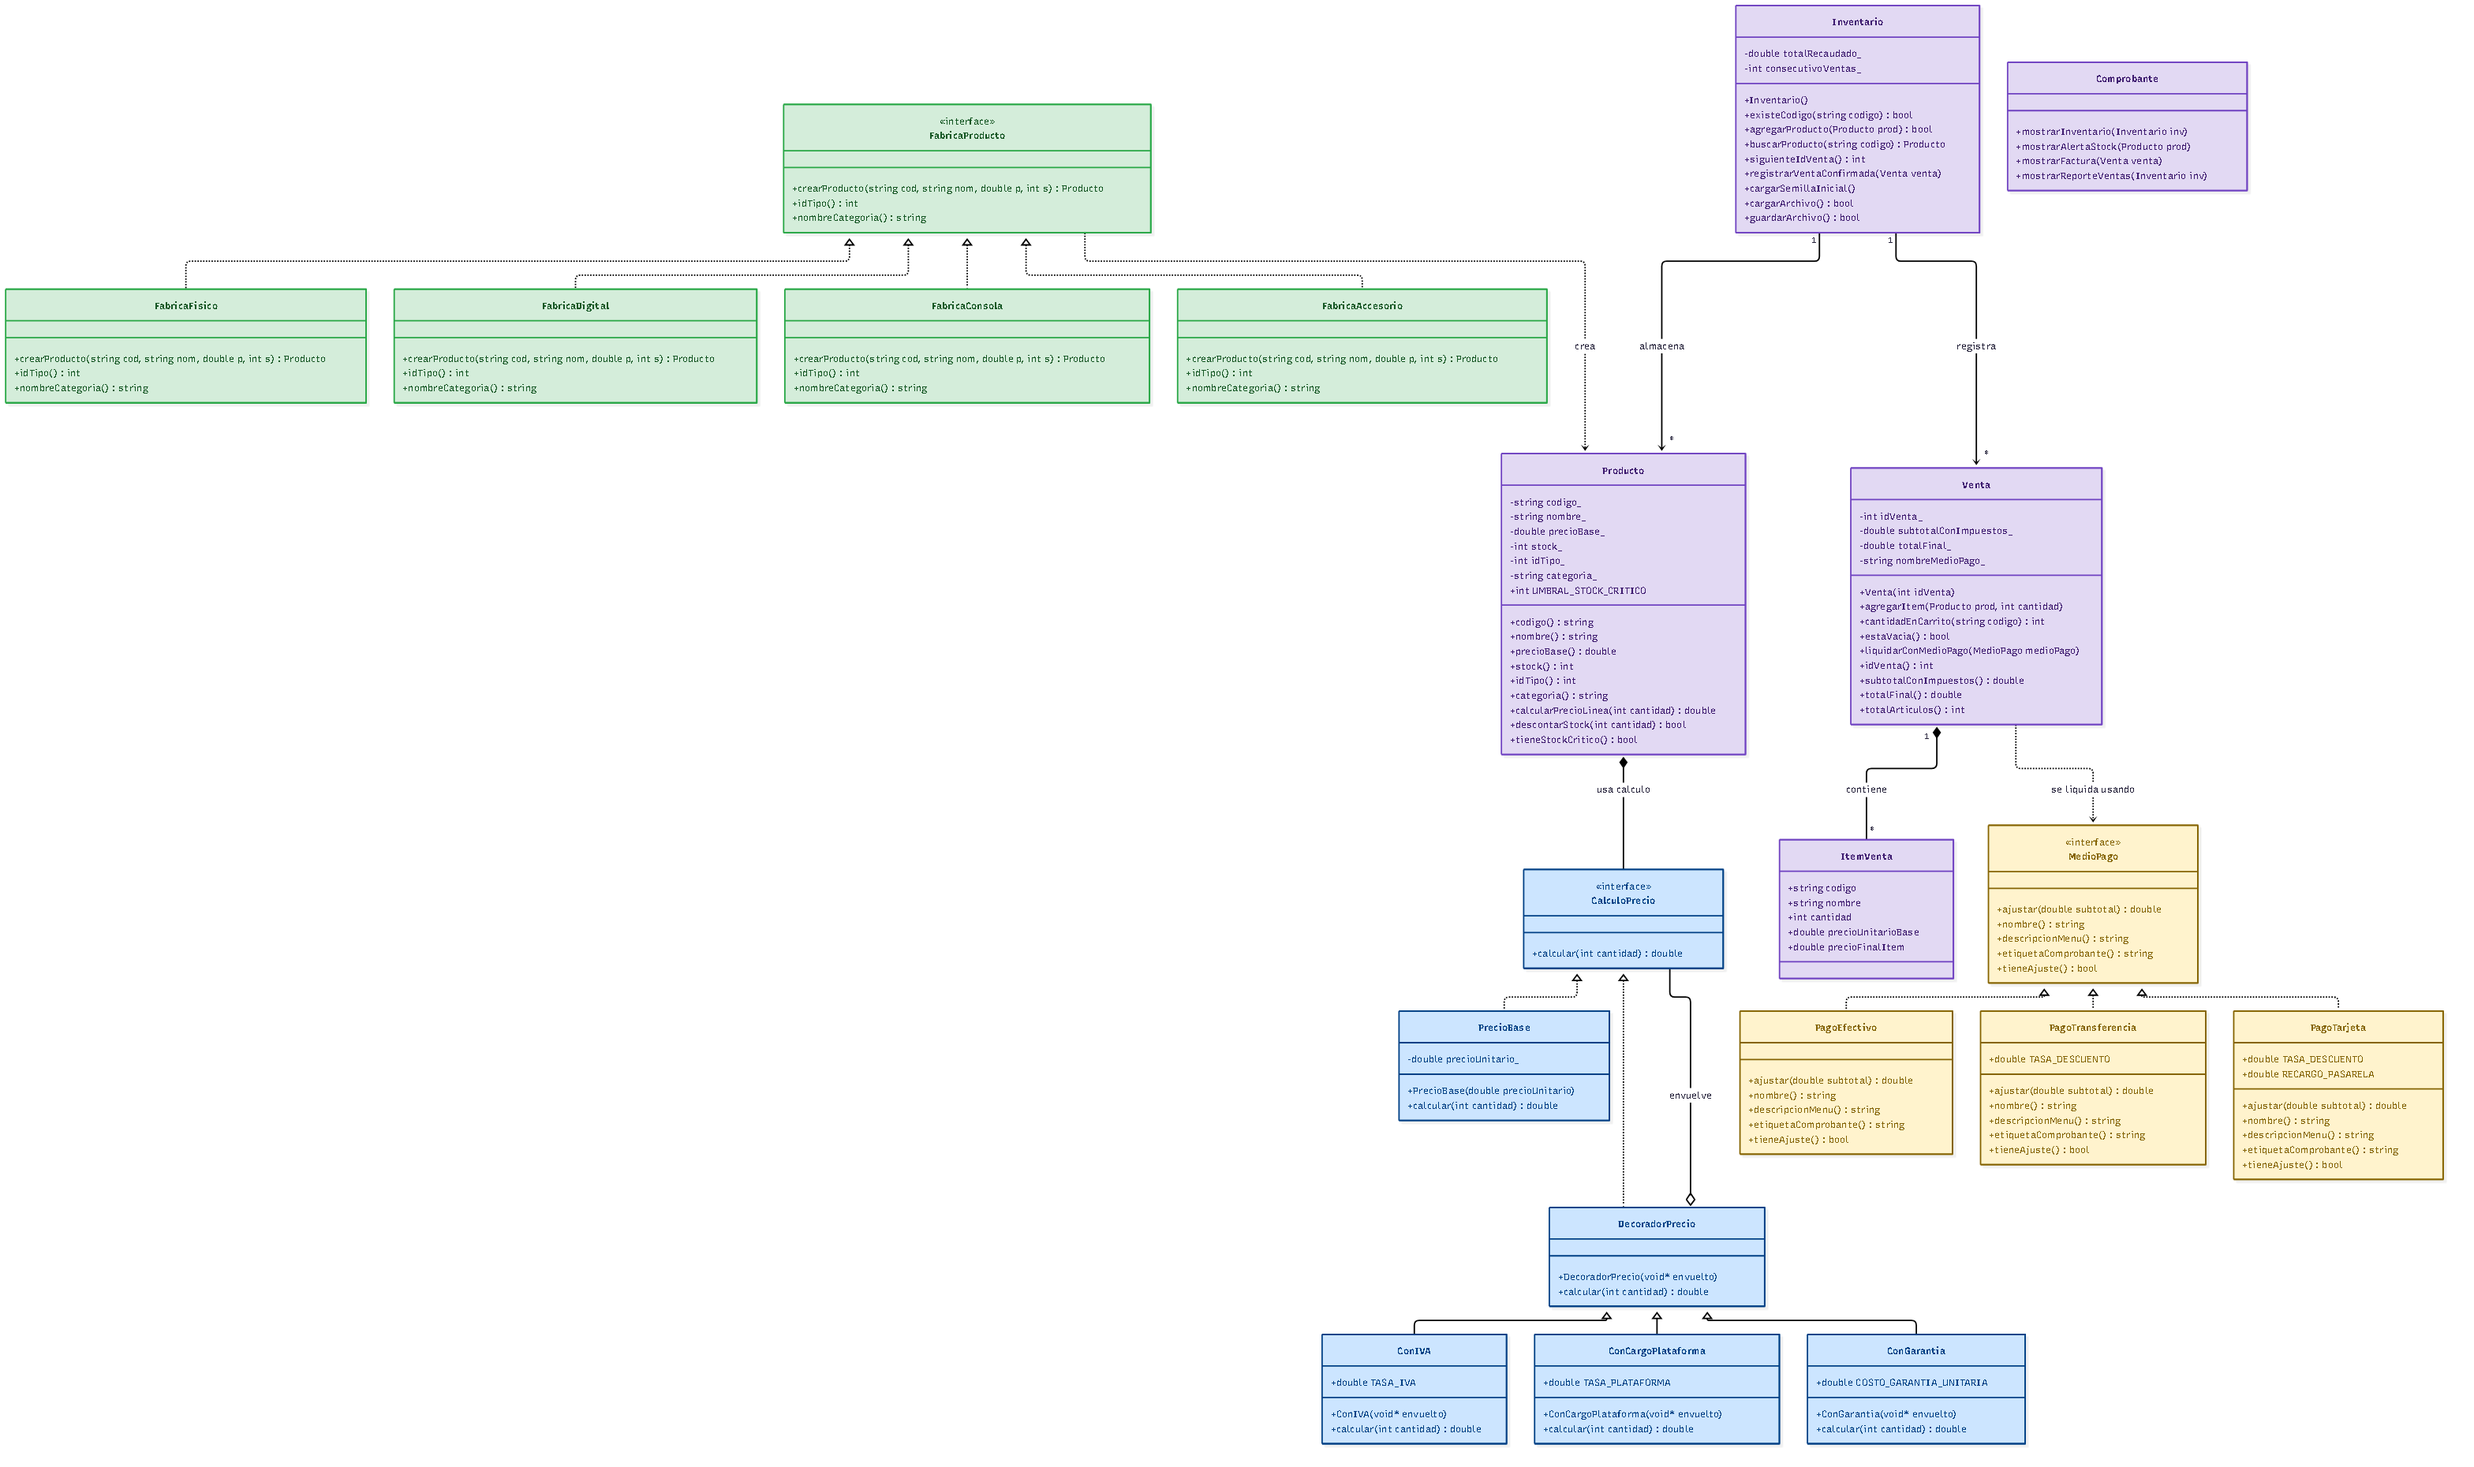
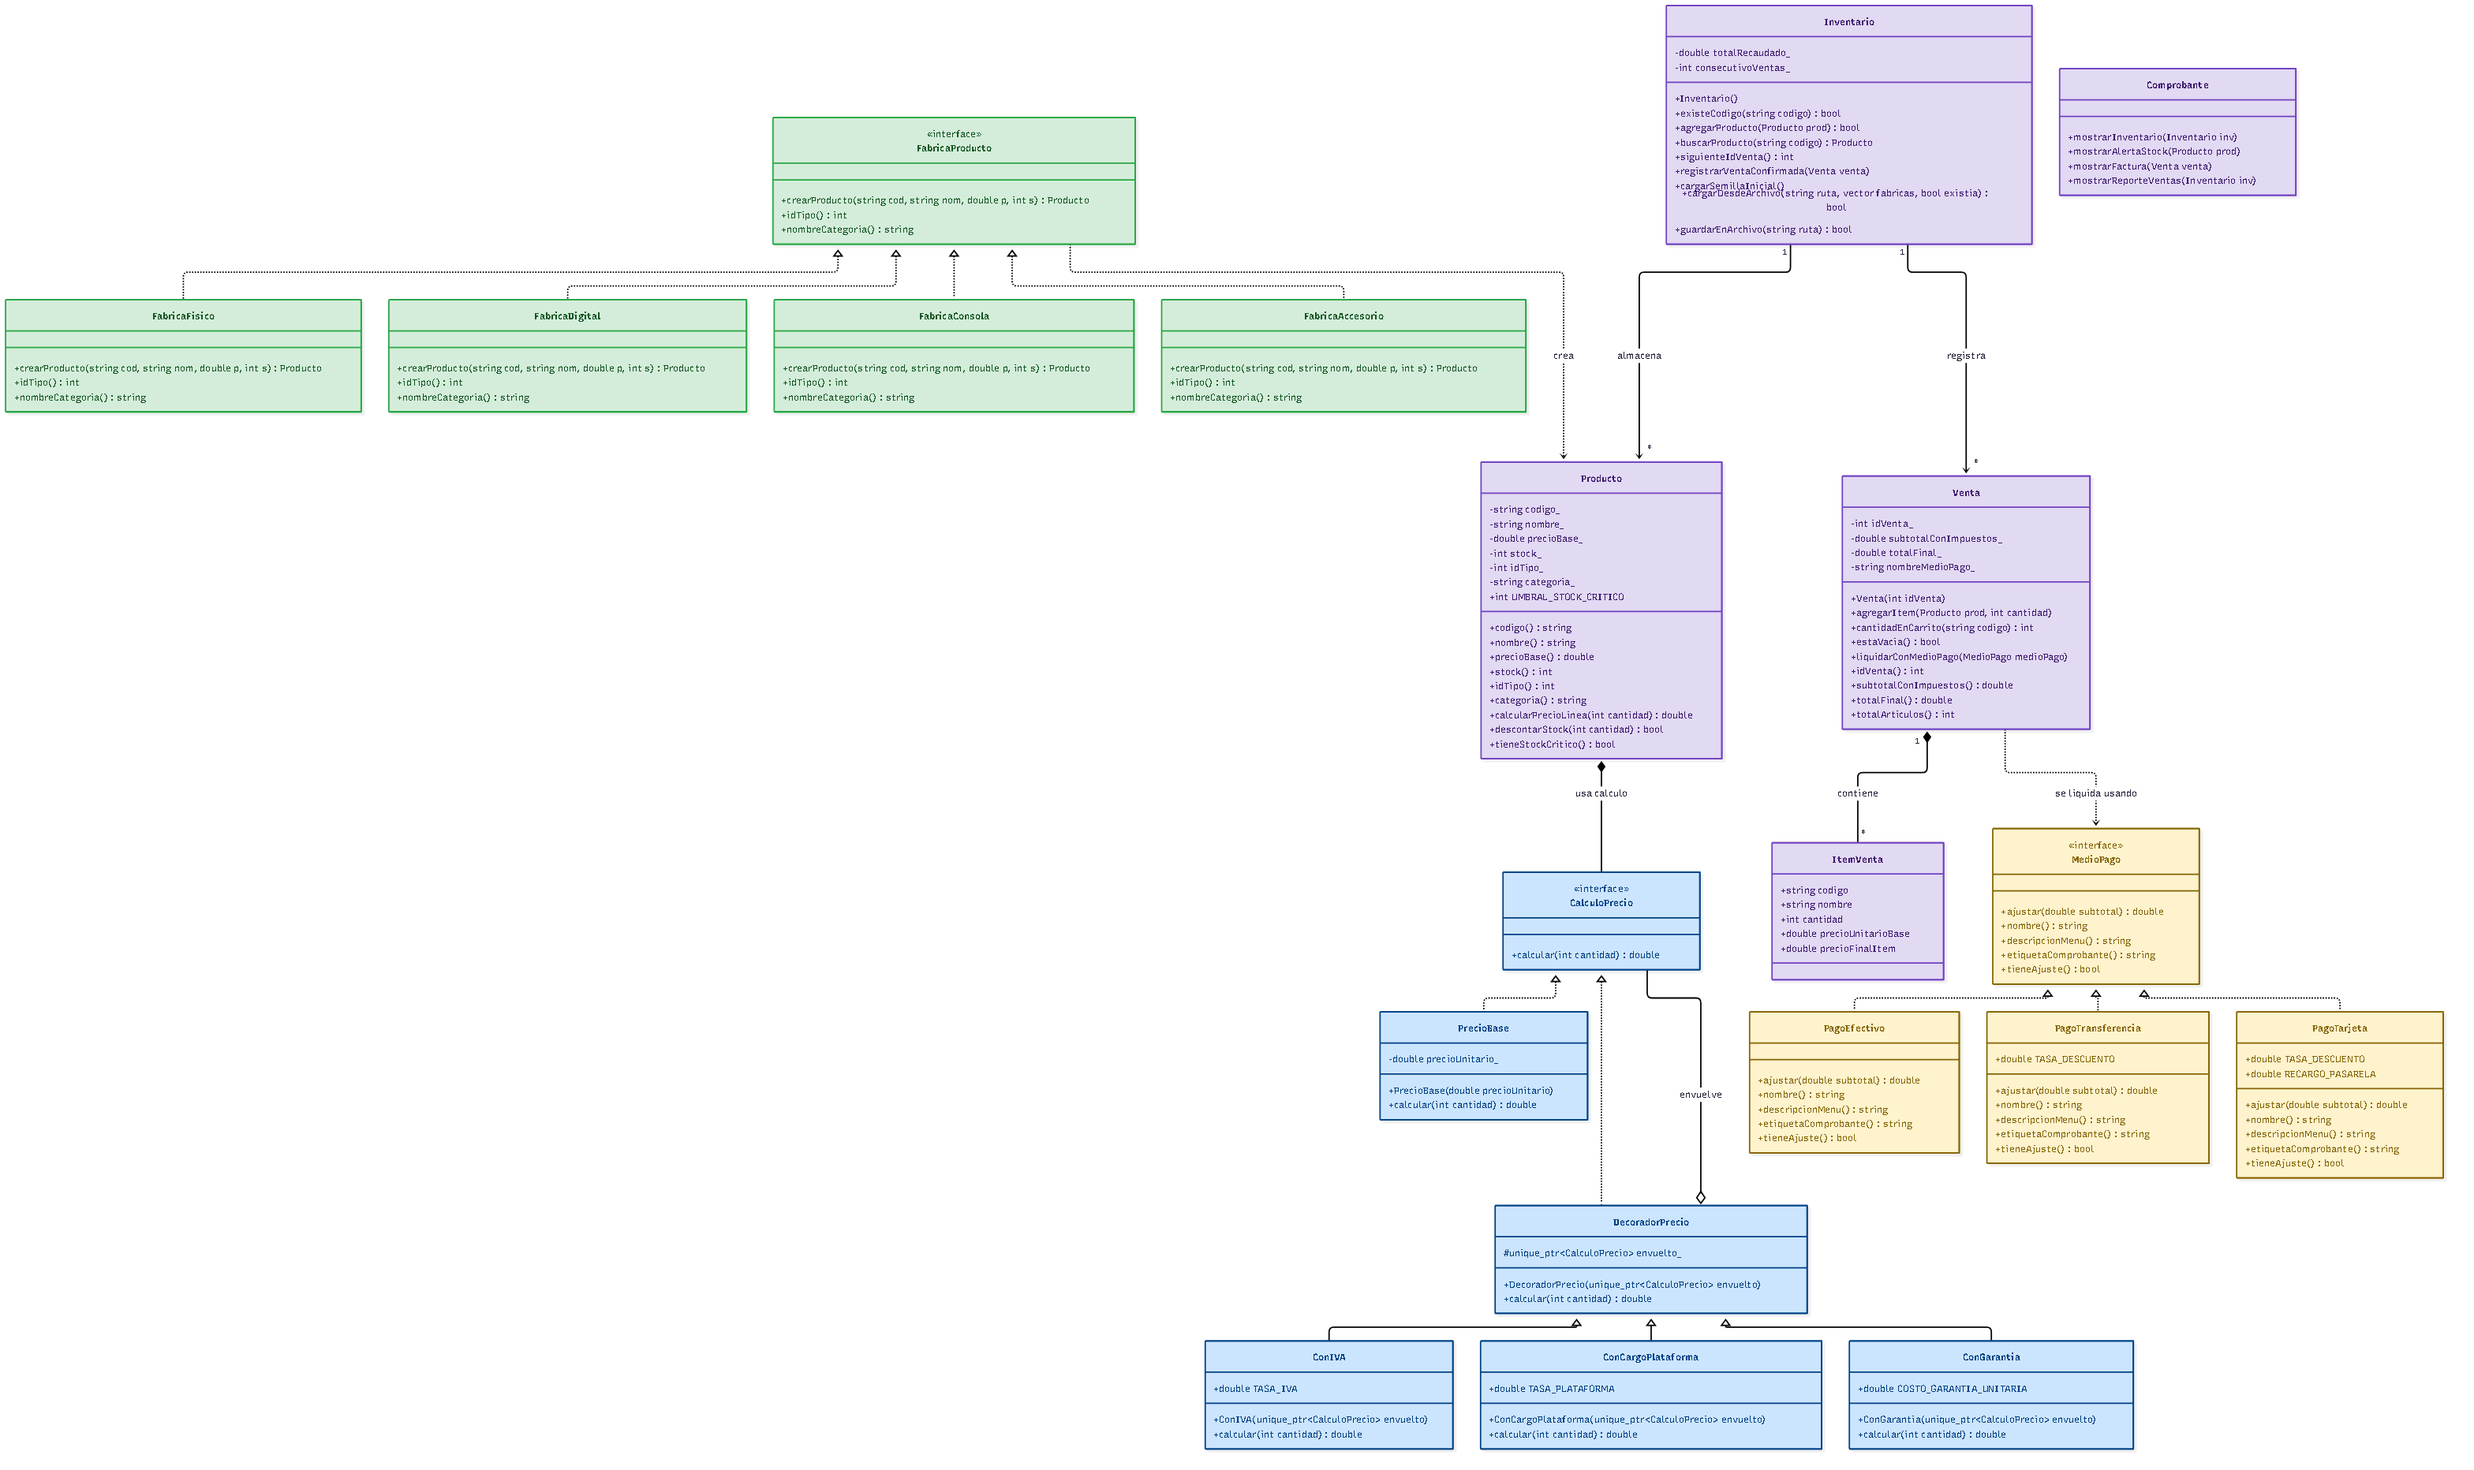
chore(release): finalize documentation and V1 UML

diff --git a/README.md b/README.md
@@ -1,97 +1,154 @@
 # Video Shop — Gestión de una Tienda con Patrones de Software
 
-Proyecto final para el curso de **Patrones de Software** (Código 74362) — Periodo 2026-2.  
-**Institución:** Corporación de Estudios Tecnológicos del Norte del Valle — Cotecnova  
-**Docente:** Felipe Gutiérrez Isaza  
+Proyecto final para el curso de **Patrones de Software** (Código 74362) — Periodo 2026-2.
+**Institución:** Corporación de Estudios Tecnológicos del Norte del Valle — Cotecnova
+**Docente:** Felipe Gutiérrez Isaza
 
 ---
 
-## 1. Integrantes y Roles
+## 1. Descripción del Proyecto
+
+**Video Shop** es una aplicación de consola desarrollada en **C++17** (sin dependencias externas ni motor de base de datos) que gestiona el catálogo de productos, inventario y ventas de una tienda especializada en videojuegos, consolas y accesorios de entretenimiento digital:
+
+- **Juegos Físicos:** Gravados con IVA del 19 %.
+- **Juegos Digitales / DLCs:** Sujetos a cargo de servicio de plataforma del 5 %.
+- **Consolas / Hardware:** Gravados con IVA del 19 % más póliza de garantía extendida ($5.000 COP por unidad).
+- **Accesorios:** Periféricos gravados con IVA del 19 %.
+
+El proyecto sigue un enfoque evolutivo en dos versiones:
+- **Versión 0 (`v0/`):** Implementación inicial directa y monolítica sin patrones de diseño, que evidencia los antipatrones y problemas de acoplamiento cuando el sistema crece.
+- **Versión 1 (`v1/`):** Rediseño arquitectónico orientado a objetos que conserva todas las funcionalidades originales (F1–F6), corrige los antipatrones diagnosticados e integra tres patrones GoF en el flujo de venta, además de incorporar un menú numérico validado y persistencia local del catálogo en CSV (en la versión modular).
+
+---
+
+## 2. Integrantes y Responsabilidades
 
 | Nombre | Rol | Responsabilidad Principal |
 | :--- | :--- | :--- |
-| **Luis Cardona** | **Responsable de código** | Coordina la construcción de las versiones 0 y 1, el control de versiones y su integración técnica. |
-| *Felipe Muñoz Cano** | **Responsable de diseño** | Coordina la selección de patrones, diagnóstico de antipatrones y coherencia arquitectural. |
-| **Sebastian Orozco** | **Responsable de modelado** | Elabora los diagramas UML (clases, secuencia, comunicación) y mantiene la documentación. |
+| **Luis Cardona** | **Responsable de código** | Coordina la construcción de las versiones 0 y 1, la integración técnica, compilación, pruebas y control de versiones. |
+| **Felipe Muñoz Cano** | **Responsable de diseño** | Coordina el diagnóstico de antipatrones, la selección y justificación de los patrones de diseño y la coherencia arquitectural. |
+| **Sebastian Orozco** | **Responsable de modelado** | Elabora los diagramas UML (clases, secuencia y comunicación) y mantiene la documentación funcional. |
 
 ---
 
-## 2. Dominio del Proyecto: Tienda de Videojuegos (Video Shop)
+## 3. Funcionalidades Principales
 
-La aplicación modela la operación de una tienda especializada en videojuegos, consolas y accesorios de entretenimiento digital:
-- **Juegos Físicos:** Medios físicos en disco/cartucho sujetos a impuestos convencionales (IVA 19%).
-- **Juegos Digitales / DLCs:** Licencias y códigos digitales sujetos a tarifas de servicios digitales (5%).
-- **Consolas / Hardware:** Equipos sujetos a IVA y garantía extendida obligatoria.
-- **Accesorios / Coleccionables:** Controles, auriculares y periféricos.
+- **F1 — Registro de productos:** Alta de artículos con código único, nombre, categoría, precio positivo y stock no negativo.
+- **F2 — Consulta de inventario:** Listado formateado con código, nombre, precio base, stock actual y categoría.
+- **F3 — Registro de ventas multi-artículo:** Carrito interactivo con búsqueda por código, validación de existencias acumuladas y cancelación segura sin alterar el stock.
+- **F4 — Cálculo de impuestos, cargos y medios de pago:** Liquidación automática por categoría (IVA 19 %, plataforma 5 %, garantía $5.000/unidad) y ajuste según medio de pago (Efectivo, Transferencia -3 %, Tarjeta -3 % + $800 COP).
+- **F5 — Control de stock y alertas:** Descuento transaccional al confirmar la venta y alerta automática cuando el saldo queda por debajo de 5 unidades.
+- **F6 — Comprobantes y reporte de ventas:** Emisión de factura detallada por transacción y reporte histórico de ventas de la sesión con recaudo acumulado.
+- **Persistencia local (V1 modular):** Almacenamiento del catálogo de productos y existencias en `v1/data/productos.csv` con reconstrucción polimórfica al reiniciar.
 
 ---
 
-## 3. Estructura del Repositorio
+## 4. Patrones de Diseño Aplicados (Versión 1)
 
-Siguiendo estrictamente los lineamientos del proyecto:
+| Patrón | Categoría | Propósito dentro del proyecto | Clases principales (`v1/`) |
+| :--- | :--- | :--- | :--- |
+| **Factory Method** | Creacional | Creación polimórfica de productos según categoría ensamblando su configuración de cálculo de precio sin `switch`. | `FabricaProducto`, `FabricaFisico`, `FabricaDigital`, `FabricaConsola`, `FabricaAccesorio` |
+| **Decorator** | Estructural | Composición dinámica de impuestos, cargos de plataforma y garantías sobre el precio base del producto. | `CalculoPrecio`, `PrecioBase`, `DecoradorPrecio`, `ConIVA`, `ConCargoPlataforma`, `ConGarantia` |
+| **Strategy** | Comportamiento | Encapsulación de las reglas de descuento, recargo y descripción de cada medio de pago durante la liquidación de la venta. | `MedioPago`, `PagoEfectivo`, `PagoTransferencia`, `PagoTarjeta` |
+
+---
+
+## 5. Requisitos Técnicos, Compilación y Ejecución
+
+- **Estándar requerido:** C++17 (`-std=c++17`), sin bibliotecas externas.
+- **Compilador verificado:** GNU C++ (`g++` 16.1.0 en Windows; compatible con entornos GCC estándar en Linux/macOS).
+
+### 5.1. Versión 0 (Sin patrones — Inmutable tras Seguimiento 1)
+
+```powershell
+g++ -std=c++17 -Wall -Wextra -pedantic v0/tienda_v0.cpp -o tienda_v0.exe
+```
+Ejecución en Windows:
+```powershell
+.\tienda_v0.exe
+```
+
+### 5.2. Versión 1 Modular (Implementación Principal)
+
+```powershell
+g++ -std=c++17 -Wall -Wextra -pedantic v1/main.cpp v1/Tienda.cpp -o tienda_v1.exe
+```
+Ejecución en Windows:
+```powershell
+.\tienda_v1.exe
+```
+
+### 5.3. Versión 1 Unificada (Archivo Único para Compiladores Online)
+
+```powershell
+g++ -std=c++17 -Wall -Wextra -pedantic v1/tienda_v1_online.cpp -o tienda_v1_online.exe
+```
+Ejecución en Windows:
+```powershell
+.\tienda_v1_online.exe
+```
+
+#### Ejecución en OnlineGDB
+1. Abrir `https://www.onlinegdb.com/`.
+2. Seleccionar el lenguaje **C++17**.
+3. Copiar y pegar el contenido completo de [`v1/tienda_v1_online.cpp`](v1/tienda_v1_online.cpp) en el editor (no requiere copiar archivos `.h` ni `.cpp` adicionales).
+4. Ejecutar el programa y operar el menú interactivo (`1`, `2`, `3`, `4`, `0`).
+
+> **Nota sobre la persistencia de datos:** La versión modular persiste el catálogo de productos y su stock en `v1/data/productos.csv` (protegido contra errores mediante escritura temporal atómica y excluido del control de versiones en `.gitignore`). La versión unificada (`v1/tienda_v1_online.cpp`) inicia por defecto en **modo demostrativo en memoria** con los 5 productos semilla de V0 para garantizar ejecuciones limpias en compiladores web (puede activarse archivo local pasando `--con-persistencia`). En ambas versiones, el historial de ventas (`F6`) corresponde a la sesión en curso en memoria.
+
+---
+
+## 6. Diagramas UML Oficiales y Documentación
+
+### Diagramas UML Oficiales (`docs/uml/`)
+- [Diagrama de Clases — Versión 0](docs/uml/clases_v0.png): Estructura monolítica inicial (`TiendaVideojuegos`, `Producto`, `ItemVenta`, `Venta`).
+- [Diagrama de Clases — Versión 1](docs/uml/clases_v1.png): Arquitectura rediseñada con los tres patrones GoF diferenciados por color.
+- [Diagrama de Secuencia — Registrar una Venta](docs/uml/secuencia_venta.png): Orden temporal de mensajes entre objetos en el flujo de venta.
+- [Diagrama de Comunicación — Registrar una Venta](docs/uml/comunicacion_venta.png): Organización estructural de objetos y numeración jerárquica de mensajes.
+
+### Documentación del Proyecto y Evidencia
+- [Ficha del Cliente e Historias de Usuario](docs/01_ficha_cliente.md)
+- [Informe de Antipatrones y Olores de Código (V0)](docs/02_antipatrones.md)
+- [Justificación de los Patrones de Diseño (V1)](docs/03_justificacion_patrones.md)
+- [Salida Esperada de Ejecución (V1)](v1/salida_esperada.txt)
+
+---
+
+## 7. Estructura del Repositorio
 
 ```text
 Video-Shop/
-├── README.md                     ← Integrantes, roles, tipo de tienda, cómo compilar
-├── .gitignore                    ← Filtro para binarios y temporales
+├── README.md
+├── .gitignore
 ├── docs/
-│   ├── 01_ficha_cliente.md           (Seguimiento 1)
-│   ├── 02_antipatrones.md            (Seguimiento 2)
-│   ├── 03_justificacion_patrones.md  (Seguimiento 2)
+│   ├── 01_ficha_cliente.md
+│   ├── 02_antipatrones.md
+│   ├── 03_justificacion_patrones.md
+│   ├── INSTRUCCIONES_MODELADO.md     ← Documento auxiliar histórico
 │   └── uml/
-│       ├── clases_v0.png             (Seguimiento 1)
-│       ├── clases_v1.png             (Seguimiento 2)
-│       ├── secuencia_venta.png       (Seguimiento 3)
-│       └── comunicacion_venta.png    (Seguimiento 3)
+│       ├── clases_v0.png
+│       ├── clases_v1.png
+│       ├── secuencia_venta.png
+│       └── comunicacion_venta.png
+├── Diagrama de clases v0.drawio.pdf  ← Documento auxiliar histórico
 ├── v0/
-│   └── tienda_v0.cpp             ← Versión 0 sin patrones (inmutable tras Seguimiento 1)
+│   └── tienda_v0.cpp                 ← Versión 0 sin patrones
 └── v1/
-    ├── main.cpp                  ← Versión 1 con patrones de diseño
-    ├── (archivos .h y .cpp)
-    └── salida_esperada.txt       ← Registro de ejecución del flujo de venta
+    ├── CalculoPrecio.h
+    ├── FabricaProducto.h
+    ├── Inventario.h
+    ├── MedioPago.h
+    ├── Producto.h
+    ├── Tienda.cpp
+    ├── Venta.h
+    ├── main.cpp
+    ├── tienda_v1_online.cpp          ← Versión unificada autocontenida
+    └── salida_esperada.txt
 ```
 
 ---
 
-## 4. Instrucciones de Compilación y Ejecución
+## 8. Etiquetas de Entrega en Git
 
-La aplicación está desarrollada en C++ estándar y no requiere librerías externas ni bases de datos (datos en memoria).
-
-### Compilación de la Versión 0 (v0)
-
-Utilizando el compilador GNU C++ (`g++`):
-```bash
-g++ -std=c++17 v0/tienda_v0.cpp -o v0/tienda_v0.exe
-```
-
-Ejecución en consola (Windows):
-```bash
-.\v0\tienda_v0.exe
-```
-
-O en Linux / macOS:
-```bash
-g++ -std=c++17 v0/tienda_v0.cpp -o v0/tienda_v0
-./v0/tienda_v0
-```
-
----
-
-## 5. Funcionalidades Mínimas Implementadas (F1 a F6)
-
-1. **F1 — Registrar productos:** Registro con código, nombre, precio unitario, stock disponible y tipo de producto.
-2. **F2 — Consultar el inventario:** Listado completo y formateado del inventario actual.
-3. **F3 — Registrar una venta:** Carrito de compras que admite múltiples productos y diferentes cantidades en una sola transacción.
-4. **F4 — Aplicar descuentos o impuestos:** Cálculo de IVA según tipo de producto y descuentos/recargos según método de pago (Efectivo, Transferencia, Tarjeta).
-5. **F5 — Controlar el stock:** Descuento automático de existencias con alertas automáticas cuando el stock es inferior al mínimo permitido.
-6. **F6 — Reporte de ventas:** Historial detallado de recibos emitidos y acumulador financiero total de la caja.
-
----
-
-## 6. Etiquetas de Entrega en Git
-
-- **Seguimiento 1:** `entrega-s1`
-- **Seguimiento 2:** `entrega-s2`
 - **Seguimiento 3:** `entrega-s3`
 - **Entrega Final:** `entrega-final`
-
